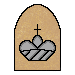
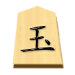
added temporary images for the pieces and fixed a bug

diff --git a/src/de/hhn/shogi/frontend/FieldButton.java b/src/de/hhn/shogi/frontend/FieldButton.java
@@ -20,7 +20,7 @@ public class FieldButton extends JButton {
     private int translatedX, translatedY;
     private boolean hovering = false, mousePressed = false;
     private boolean legalMoveIcon = false;
-    private final Color legalMoveColor = new Color(145, 100, 145);
+    private final Color legalMoveColor = new Color(145, 100, 145, 200);
     private final int legalMoveBorderWidth = 5;
     Window window;
 
@@ -119,9 +119,14 @@ public class FieldButton extends JButton {
     public String getPathName() {
         return switch (piece.getBaseType()) {
             default -> "blank.png";
+            case LANCE -> "lance.png";
+            case KNIGHT -> "knight.png";
             case BISHOP, HORSE -> "bishop.png";
             case KING -> "king.png";
             case ROOK, DRAGON -> "rook.png";
+            case PAWN -> "pawn.png";
+            case GOLD_GENERAL -> "gold_general.png";
+            case SILVER_GENERAL -> "silver_general.png";
         };
     }
 
@@ -140,32 +145,36 @@ public class FieldButton extends JButton {
 
             @Override
             public void mousePressed(MouseEvent e) {
-                mousePressed = true;
+                if (e.getButton() == 1 && hovering) {
+                    mousePressed = true;
+                }
             }
 
             @Override
             public void mouseReleased(MouseEvent e) {
-                if (mousePressed) {
-                    System.out.println(pos);
+                if (e.getButton() == 1) {
+                    if (mousePressed && hovering) {
+                        System.out.println(pos);
 
-                    ////////////test code
-                    if (piece != null) {
-                        ArrayList<Vec2> possibleMoves = new ArrayList<>();
-                        for (int x = 0; x < 9; x++) {
-                            for (int y = 0; y < 9; y++) {
-                                Vec2 testPos = new Vec2(x, y);
-                                if (RuleLogic.validMove(pos, testPos, piece)) {
-                                    possibleMoves.add(testPos);
+                        ////////////test code
+                        if (piece != null) {
+                            ArrayList<Vec2> possibleMoves = new ArrayList<>();
+                            for (int x = 0; x < 9; x++) {
+                                for (int y = 0; y < 9; y++) {
+                                    Vec2 testPos = new Vec2(x, y);
+                                    if (RuleLogic.validMove(pos, testPos, piece)) {
+                                        possibleMoves.add(testPos);
+                                    }
                                 }
                             }
+                            window.displayPossibleMoves(possibleMoves, true);
                         }
-                        window.displayPossibleMoves(possibleMoves, true);
-                    }
-                    ////////////
+                        ////////////
 
-                    // new StateManager().fieldClick(pos);
+                        // new StateManager().fieldClick(pos);
+                    }
+                    mousePressed = false;
                 }
-                mousePressed = false;
             }
         };
     }
